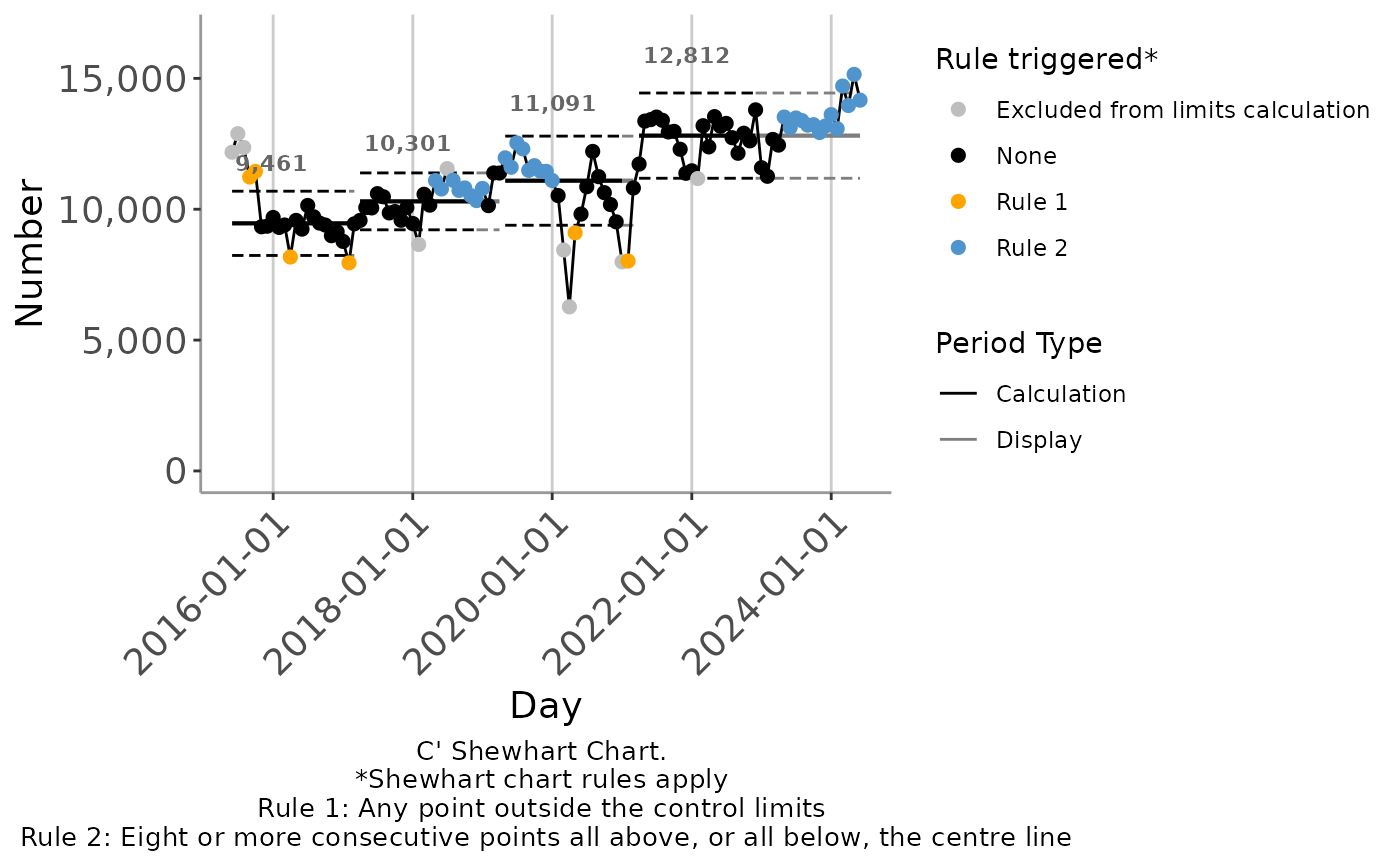
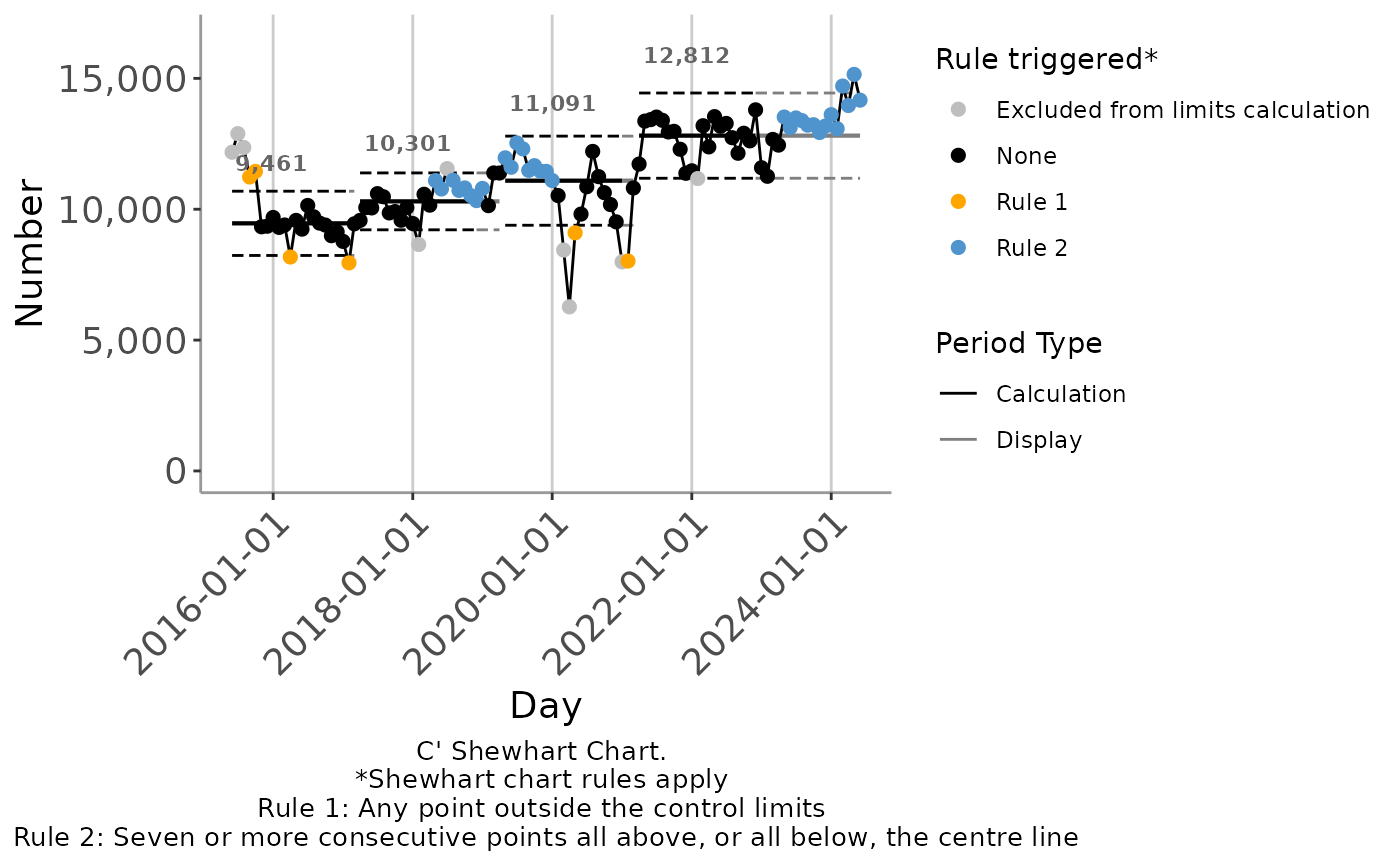
Deploying to gh-pages from @ HorridTom/autospc@33deaa3bc79fa0dd4d793f4611ea19e44e72ee63 🚀

Changed region(s): [[0.0, 0.9353, 0.7679, 0.9977]]

diff --git a/authors.html b/authors.html
@@ -13,7 +13,7 @@
 
     <a class="navbar-brand me-2" href="index.html">autospc</a>
 
-    <small class="nav-text text-muted me-auto" data-bs-toggle="tooltip" data-bs-placement="bottom" title="">0.0.0.9046</small>
+    <small class="nav-text text-muted me-auto" data-bs-toggle="tooltip" data-bs-placement="bottom" title="">0.0.0.9047</small>
 
 
     <button class="navbar-toggler" type="button" data-bs-toggle="collapse" data-bs-target="#navbar" aria-controls="navbar" aria-expanded="false" aria-label="Toggle navigation">
@@ -58,13 +58,13 @@
 
       <p>Woodcock T, O'Connor I (2026).
 <em>autospc: Automatically Partitioned SPC Charts</em>.
-R package version 0.0.0.9046, <a href="https://horridtom.github.io/autospc/">https://horridtom.github.io/autospc/</a>.
+R package version 0.0.0.9047, <a href="https://horridtom.github.io/autospc/">https://horridtom.github.io/autospc/</a>.
 </p>
       <pre>@Manual{,
   title = {autospc: Automatically Partitioned SPC Charts},
   author = {Thomas Woodcock and Imogen O'Connor},
   year = {2026},
-  note = {R package version 0.0.0.9046},
+  note = {R package version 0.0.0.9047},
   url = {https://horridtom.github.io/autospc/},
 }</pre>
     </div>

diff --git a/reference/autospc.html b/reference/autospc.html
@@ -17,7 +17,7 @@ control limits."><meta property="og:image" content="https://horridtom.github.io/
 
     <a class="navbar-brand me-2" href="../index.html">autospc</a>
 
-    <small class="nav-text text-muted me-auto" data-bs-toggle="tooltip" data-bs-placement="bottom" title="">0.0.0.9046</small>
+    <small class="nav-text text-muted me-auto" data-bs-toggle="tooltip" data-bs-placement="bottom" title="">0.0.0.9047</small>
 
 
     <button class="navbar-toggler" type="button" data-bs-toggle="collapse" data-bs-target="#navbar" aria-controls="navbar" aria-expanded="false" aria-label="Toggle navigation">
@@ -61,7 +61,7 @@ control limits.</p>
 <span>  chart_type <span class="op">=</span> <span class="cn">NULL</span>,</span>
 <span>  period_min <span class="op">=</span> <span class="fl">21</span>,</span>
 <span>  baseline_length <span class="op">=</span> <span class="cn">NULL</span>,</span>
-<span>  shift_rule_threshold <span class="op">=</span> <span class="fl">8</span>,</span>
+<span>  shift_rule_threshold <span class="op">=</span> <span class="fl">8L</span>,</span>
 <span>  baseline_only <span class="op">=</span> <span class="cn">FALSE</span>,</span>
 <span>  establish_every_shift <span class="op">=</span> <span class="cn">FALSE</span>,</span>
 <span>  no_regrets <span class="op">=</span> <span class="cn">TRUE</span>,</span>

diff --git a/404.html b/404.html
@@ -32,7 +32,7 @@
 
     <a class="navbar-brand me-2" href="https://horridtom.github.io/autospc/index.html">autospc</a>
 
-    <small class="nav-text text-muted me-auto" data-bs-toggle="tooltip" data-bs-placement="bottom" title="">0.0.0.9046</small>
+    <small class="nav-text text-muted me-auto" data-bs-toggle="tooltip" data-bs-placement="bottom" title="">0.0.0.9047</small>
 
 
     <button class="navbar-toggler" type="button" data-bs-toggle="collapse" data-bs-target="#navbar" aria-controls="navbar" aria-expanded="false" aria-label="Toggle navigation">

diff --git a/CODE_OF_CONDUCT.html b/CODE_OF_CONDUCT.html
@@ -13,7 +13,7 @@
 
     <a class="navbar-brand me-2" href="index.html">autospc</a>
 
-    <small class="nav-text text-muted me-auto" data-bs-toggle="tooltip" data-bs-placement="bottom" title="">0.0.0.9046</small>
+    <small class="nav-text text-muted me-auto" data-bs-toggle="tooltip" data-bs-placement="bottom" title="">0.0.0.9047</small>
 
 
     <button class="navbar-toggler" type="button" data-bs-toggle="collapse" data-bs-target="#navbar" aria-controls="navbar" aria-expanded="false" aria-label="Toggle navigation">

diff --git a/CONTRIBUTING.html b/CONTRIBUTING.html
@@ -13,7 +13,7 @@
 
     <a class="navbar-brand me-2" href="index.html">autospc</a>
 
-    <small class="nav-text text-muted me-auto" data-bs-toggle="tooltip" data-bs-placement="bottom" title="">0.0.0.9046</small>
+    <small class="nav-text text-muted me-auto" data-bs-toggle="tooltip" data-bs-placement="bottom" title="">0.0.0.9047</small>
 
 
     <button class="navbar-toggler" type="button" data-bs-toggle="collapse" data-bs-target="#navbar" aria-controls="navbar" aria-expanded="false" aria-label="Toggle navigation">

diff --git a/LICENSE.html b/LICENSE.html
@@ -13,7 +13,7 @@
 
     <a class="navbar-brand me-2" href="index.html">autospc</a>
 
-    <small class="nav-text text-muted me-auto" data-bs-toggle="tooltip" data-bs-placement="bottom" title="">0.0.0.9046</small>
+    <small class="nav-text text-muted me-auto" data-bs-toggle="tooltip" data-bs-placement="bottom" title="">0.0.0.9047</small>
 
 
     <button class="navbar-toggler" type="button" data-bs-toggle="collapse" data-bs-target="#navbar" aria-controls="navbar" aria-expanded="false" aria-label="Toggle navigation">

diff --git a/articles/index.html b/articles/index.html
@@ -13,7 +13,7 @@
 
     <a class="navbar-brand me-2" href="../index.html">autospc</a>
 
-    <small class="nav-text text-muted me-auto" data-bs-toggle="tooltip" data-bs-placement="bottom" title="">0.0.0.9046</small>
+    <small class="nav-text text-muted me-auto" data-bs-toggle="tooltip" data-bs-placement="bottom" title="">0.0.0.9047</small>
 
 
     <button class="navbar-toggler" type="button" data-bs-toggle="collapse" data-bs-target="#navbar" aria-controls="navbar" aria-expanded="false" aria-label="Toggle navigation">

diff --git a/articles/stable-shift-algorithm.html b/articles/stable-shift-algorithm.html
@@ -31,7 +31,7 @@
 
     <a class="navbar-brand me-2" href="../index.html">autospc</a>
 
-    <small class="nav-text text-muted me-auto" data-bs-toggle="tooltip" data-bs-placement="bottom" title="">0.0.0.9046</small>
+    <small class="nav-text text-muted me-auto" data-bs-toggle="tooltip" data-bs-placement="bottom" title="">0.0.0.9047</small>
 
 
     <button class="navbar-toggler" type="button" data-bs-toggle="collapse" data-bs-target="#navbar" aria-controls="navbar" aria-expanded="false" aria-label="Toggle navigation">

diff --git a/index.html b/index.html
@@ -34,7 +34,7 @@
 
     <a class="navbar-brand me-2" href="index.html">autospc</a>
 
-    <small class="nav-text text-muted me-auto" data-bs-toggle="tooltip" data-bs-placement="bottom" title="">0.0.0.9046</small>
+    <small class="nav-text text-muted me-auto" data-bs-toggle="tooltip" data-bs-placement="bottom" title="">0.0.0.9047</small>
 
 
     <button class="navbar-toggler" type="button" data-bs-toggle="collapse" data-bs-target="#navbar" aria-controls="navbar" aria-expanded="false" aria-label="Toggle navigation">

diff --git a/news/index.html b/news/index.html
@@ -13,7 +13,7 @@
 
     <a class="navbar-brand me-2" href="../index.html">autospc</a>
 
-    <small class="nav-text text-muted me-auto" data-bs-toggle="tooltip" data-bs-placement="bottom" title="">0.0.0.9046</small>
+    <small class="nav-text text-muted me-auto" data-bs-toggle="tooltip" data-bs-placement="bottom" title="">0.0.0.9047</small>
 
 
     <button class="navbar-toggler" type="button" data-bs-toggle="collapse" data-bs-target="#navbar" aria-controls="navbar" aria-expanded="false" aria-label="Toggle navigation">

diff --git a/reference/autospc-package.html b/reference/autospc-package.html
@@ -15,7 +15,7 @@ Creates spc charts with control limits and centre line calculations partitioned 
 
     <a class="navbar-brand me-2" href="../index.html">autospc</a>
 
-    <small class="nav-text text-muted me-auto" data-bs-toggle="tooltip" data-bs-placement="bottom" title="">0.0.0.9046</small>
+    <small class="nav-text text-muted me-auto" data-bs-toggle="tooltip" data-bs-placement="bottom" title="">0.0.0.9047</small>
 
 
     <button class="navbar-toggler" type="button" data-bs-toggle="collapse" data-bs-target="#navbar" aria-controls="navbar" aria-expanded="false" aria-label="Toggle navigation">

diff --git a/reference/create_SPC_auto_limits_table.html b/reference/create_SPC_auto_limits_table.html
@@ -15,7 +15,7 @@ recalculation of control limits."><meta property="og:image" content="https://hor
 
     <a class="navbar-brand me-2" href="../index.html">autospc</a>
 
-    <small class="nav-text text-muted me-auto" data-bs-toggle="tooltip" data-bs-placement="bottom" title="">0.0.0.9046</small>
+    <small class="nav-text text-muted me-auto" data-bs-toggle="tooltip" data-bs-placement="bottom" title="">0.0.0.9047</small>
 
 
     <button class="navbar-toggler" type="button" data-bs-toggle="collapse" data-bs-target="#navbar" aria-controls="navbar" aria-expanded="false" aria-label="Toggle navigation">